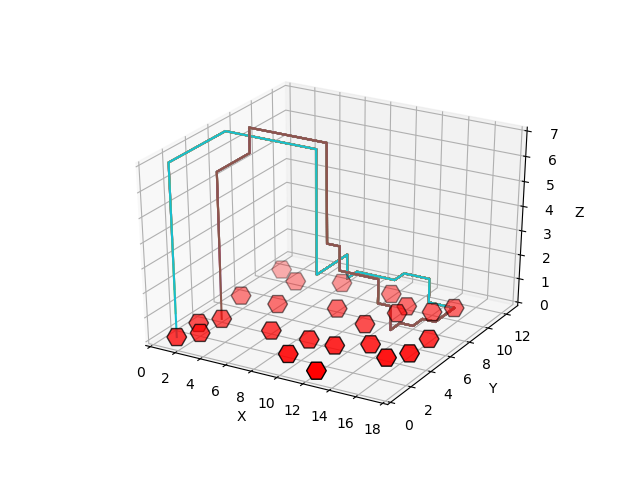
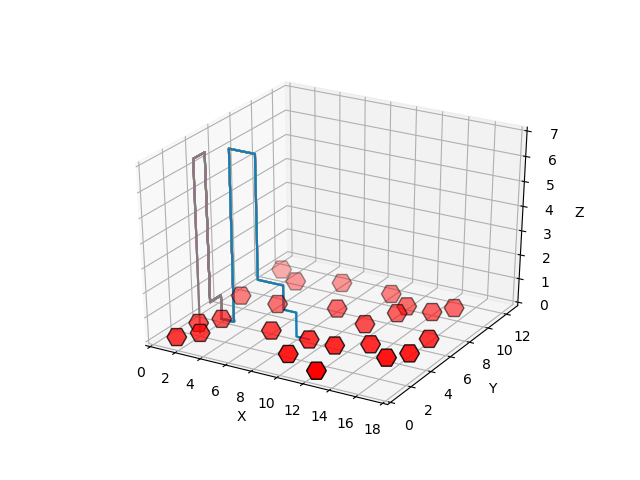
cleaned code about loose_layering

Changed region(s): [[0.25, 0.25, 0.7188, 0.6875], [0.4375, 0.5938, 0.4688, 0.6875]]

diff --git a/code/algorithms/astar.py b/code/algorithms/astar.py
@@ -1,6 +1,32 @@
+import copy
 from heapq import heappush, heappop
 from math import sqrt
 from random import shuffle
+
+
+
+def layer_netlist(netlist):
+	""" Equal distribution of wires per layer. """
+
+	# determine how many wires per layer for equal distribution
+	rest_nets = len(netlist) % 7
+	normal_divisible = len(netlist) - rest_nets
+	cables_per_layer = int(normal_divisible / 7)
+	cables_per_layer += 1
+
+	# create a list of lists, the latter corresponding to which nets should go via which layer
+	layer_list = []
+	for x in range(7):
+		if len(netlist) < cables_per_layer:
+			netlist_copy = copy.deepcopy(netlist)
+			layer_list.append(netlist_copy)
+			del netlist[:len(netlist)]
+		elif len(netlist) != 0:
+			layer = netlist[:cables_per_layer]
+			layer_list.append(layer)
+			del netlist[:cables_per_layer]
+	
+	return layer_list
 
 
 def pythagoras(current, end):
@@ -109,7 +135,7 @@ def astar(gates, grid, start, end, occurance_gate):
 			heappush(Q, (f, new_path))
 
 
-def execute_astar(netlist, chip, loose_layering):
+def execute_astar(netlist, chip):
 	""" Execute astar function for all nets. """
 
 	grid = chip.grid
@@ -121,11 +147,18 @@ def execute_astar(netlist, chip, loose_layering):
 	for gate in gates:
 		occurance_gate[gate] = 0
 
+	# does user want loose_layering
+	layering_input = input("Do you want equal distribution of wires over the layers? (y/n)\n").lower()
+	if layering_input == 'y' or layering_input == 'yes':
+		loose_layering = True
+	else:
+		loose_layering = False
+			
 	# loose_layering forces the wires through a predetermined layer
 	if loose_layering == True:
+		netlist = layer_netlist(netlist)
 		
 		# determine how many wires should sprout from each gate
-		# turn this off when running xyz_move!
 		for layer in netlist:
 			for net in layer:
 				occurance_gate[net[0]] += 1
@@ -142,10 +175,10 @@ def execute_astar(netlist, chip, loose_layering):
 					position_changes = [(1, 0, 0), (-1, 0, 0), (0, 1, 0), (0, -1, 0)]
 
 					# if the between point is occupied, try again with a random neighbour in x or y direction
-					if grid[between[0]][between[1]][between[2]] != False:
+					if not chip.check_empty(between, grid):
 						for position in position_changes:
 							new_between = (between[0] + position[0], between[1] + position[1], between[2])
-							if grid[new_between[0]][new_between[1]][new_between[2]] == False:
+							if chip.check_empty(new_between, grid):
 								between = new_between
 								break
 

diff --git a/code/classes/netlist.py b/code/classes/netlist.py
@@ -9,7 +9,6 @@ Reads a netlist from csv input and write a coordinate list from it.
 """
 
 import csv
-import copy
 from random import shuffle
 from collections import Counter
 
@@ -17,12 +16,9 @@ from collections import Counter
 class Netlist():
 	""" This class creates a usable netlist. """
 
-	def __init__(self, list_file, gates, req_sort, loose_layering):
+	def __init__(self, list_file, gates, req_sort):
 		self.netlist = self.netlist(list_file, req_sort)
 		self.net_cor = self.net_cor(self.netlist, gates, req_sort)
-		
-		if loose_layering == True:
-			self.net_cor = self.loose_layering(self.net_cor)
 
 
 	def netlist(self, list_file, req_sort):
@@ -178,27 +174,3 @@ class Netlist():
 			sorted_netlist.append(distance_net[1])
 
 		return sorted_netlist
-
-
-	def loose_layering(self, netlist):
-		""" Equal distribution of wires per layer. """
-
-		# determine how many wires per layer for equal distribution
-		rest_nets = len(netlist) % 7
-		normal_divisible = len(netlist) - rest_nets
-		cables_per_layer = int(normal_divisible / 7)
-		cables_per_layer += 1
-
-		# create a list of lists, the latter corresponding to which nets should go via which layer
-		layer_list = []
-		for x in range(7):
-			if len(netlist) < cables_per_layer:
-				netlist_copy = copy.deepcopy(netlist)
-				layer_list.append(netlist_copy)
-				del netlist[:len(netlist)]
-			elif len(netlist) != 0:
-				layer = netlist[:cables_per_layer]
-				layer_list.append(layer)
-				del netlist[:cables_per_layer]
-		
-		return layer_list

diff --git a/main.py b/main.py
@@ -52,13 +52,6 @@ if __name__ == '__main__':
 		else:
 			print("That is not an option.\n")
 
-	# does user want loose_layering
-	layering_input = input("Do you want equal distribution of wires over the layers? This is only possible for the astar algoritm! (y/n)\n").lower()
-	if layering_input == 'y' or layering_input == 'yes':
-		loose_layering = True
-	else:
-		loose_layering = False
-
 	# let user choose an algorithm
 	while True:
 		alg_req = input("Which algorithm would you like to use? (xyz_move, astar)\n").lower()
@@ -77,13 +70,13 @@ if __name__ == '__main__':
 		loopcount += 1
 
 		# create a Netlist object for the chosen chip and netlist combination
-		netlistloop = netlist.Netlist(netlist_path, chipinit.gates, req_sort, loose_layering)
+		netlistloop = netlist.Netlist(netlist_path, chipinit.gates, req_sort)
 		
 		# generate a new chip for each loop
 		chiploop = chip.Chip(chip_path)
 
 		# generate a solution
-		wires = wiring.Wiring(netlistloop.net_cor, chiploop, alg_req, loose_layering)
+		wires = wiring.Wiring(netlistloop.net_cor, chiploop, alg_req)
 
 		# calculate cost of the solution
 		cost = wires.cost(wires.wire)

diff --git a/code/classes/wiring.py b/code/classes/wiring.py
@@ -17,7 +17,7 @@ from code.algorithms.hillclimb import *
 class Wiring():
 	""" This class outputs wires to connect gates as listed in netlist. """
 
-	def __init__(self, netlist, chip, alg_req, loose_layering):
+	def __init__(self, netlist, chip, alg_req):
 		self.chip = chip
 		self.netlist = netlist
 		
@@ -26,9 +26,9 @@ class Wiring():
 		if alg_req == 'xyz_move':
 			self.wire, self.unsolved = algorithm(self.netlist, self.chip)
 			self.stuck, self.stuck_wires = find_point_stuck(self.wire, self.unsolved)
-			self.new_wires = change_wires(self.stuck, self.stuck_wires, self.chip, self.wire, loose_layering)
+			self.new_wires = change_wires(self.stuck, self.stuck_wires, self.chip, self.wire)
 		else:
-			self.wire = algorithm(self.netlist, self.chip, loose_layering)
+			self.wire = algorithm(self.netlist, self.chip)
 
 		self.output(self.wire)
 
